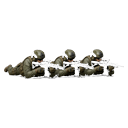
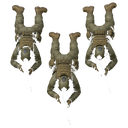
Firepoint top-down: three prone soldiers at unit scale
Replace side-view icon with bird's-eye cutouts and draw three
prone riflemen on the map at the same 26px size as infantry units.

diff --git a/src/game/sprites.ts b/src/game/sprites.ts
@@ -291,7 +291,7 @@ export function drawUnitLod(
 
 
 type UnitSpriteId = 'militia' | 'soldier' | 'specops' | 'guntruck' | 't90';
-type DefenseSpriteId = 'firepoint' | 'defenseLine';
+type DefenseSpriteId = 'firepoint' | 'firepointSoldier' | 'defenseLine';
 
 const UNIT_SPRITE_SRC: Record<UnitSpriteId, string> = {
   militia: '/militia.png',
@@ -303,6 +303,7 @@ const UNIT_SPRITE_SRC: Record<UnitSpriteId, string> = {
 
 const DEFENSE_SPRITE_SRC: Record<DefenseSpriteId, string> = {
   firepoint: '/firepoint.png',
+  firepointSoldier: '/firepoint-soldier.png',
   defenseLine: '/defense-line.png',
 };
 
@@ -321,6 +322,7 @@ const spriteState: Record<UnitSpriteId, SpriteState> = {
 
 const defenseSpriteState: Record<DefenseSpriteId, SpriteState> = {
   firepoint: { img: null, failed: false },
+  firepointSoldier: { img: null, failed: false },
   defenseLine: { img: null, failed: false },
 };
 
@@ -474,7 +476,7 @@ export function drawBuildingFigurine(
   ctx.imageSmoothingQuality = 'medium';
   if (kind === 'castle') drawCapital(ctx, x, y);
   else if (kind === 'farm') drawFarm(ctx, x, y);
-  else if (kind === 'tower') drawDefensePhoto(ctx, x, y, 'firepoint', false);
+  else if (kind === 'tower') drawFirepoint(ctx, x, y);
   else if (kind === 'strongTower') drawDefensePhoto(ctx, x, y, 'defenseLine', true);
   else if (isHouseBuilding(kind)) {
     const rank = houseRankFromKind(kind)!;
@@ -669,6 +671,48 @@ function drawFarm(ctx: CanvasRenderingContext2D, x: number, y: number): void {
   }
   drawLine(ctx, x - 12, y + 4.5, x - 10, y + 4.5, '#8b6914', 1);
   drawLine(ctx, x + 10, y + 4.5, x + 12, y + 4.5, '#8b6914', 1);
+}
+
+/** Огневая точка — 3 лежачих солдата сверху, размер как у обычных юнитов. */
+function drawFirepoint(ctx: CanvasRenderingContext2D, x: number, y: number): void {
+  const unitSize = 26; // same as drawMilitia / drawSoldier
+  const img = getDefenseSprite('firepointSoldier');
+  shadow(ctx, x, y + 10, 16, 5, 0.32);
+  // Tight top-down cluster (offsets in hex-local pixels)
+  const offsets: Array<[number, number]> = [
+    [-9, -7],
+    [9, -5],
+    [0, 7],
+  ];
+  if (img) {
+    for (const [dx, dy] of offsets) {
+      ctx.drawImage(
+        img,
+        x + dx - unitSize / 2,
+        y + dy - unitSize * 0.55,
+        unitSize,
+        unitSize,
+      );
+    }
+  } else {
+    const fallback = getDefenseSprite('firepoint');
+    if (fallback) {
+      const size = 52;
+      ctx.drawImage(fallback, x - size / 2, y - size * 0.55, size, size);
+    } else {
+      drawTower(ctx, x, y, false);
+      return;
+    }
+  }
+  const prot = BUILDING_PROTECTION.tower;
+  ctx.font = 'bold 10px Outfit, sans-serif';
+  ctx.textAlign = 'center';
+  ctx.textBaseline = 'middle';
+  ctx.lineWidth = 3;
+  ctx.strokeStyle = 'rgba(0,0,0,0.55)';
+  ctx.strokeText(String(prot), x, y + 12);
+  ctx.fillStyle = '#fff';
+  ctx.fillText(String(prot), x, y + 12);
 }
 
 function drawDefensePhoto(
